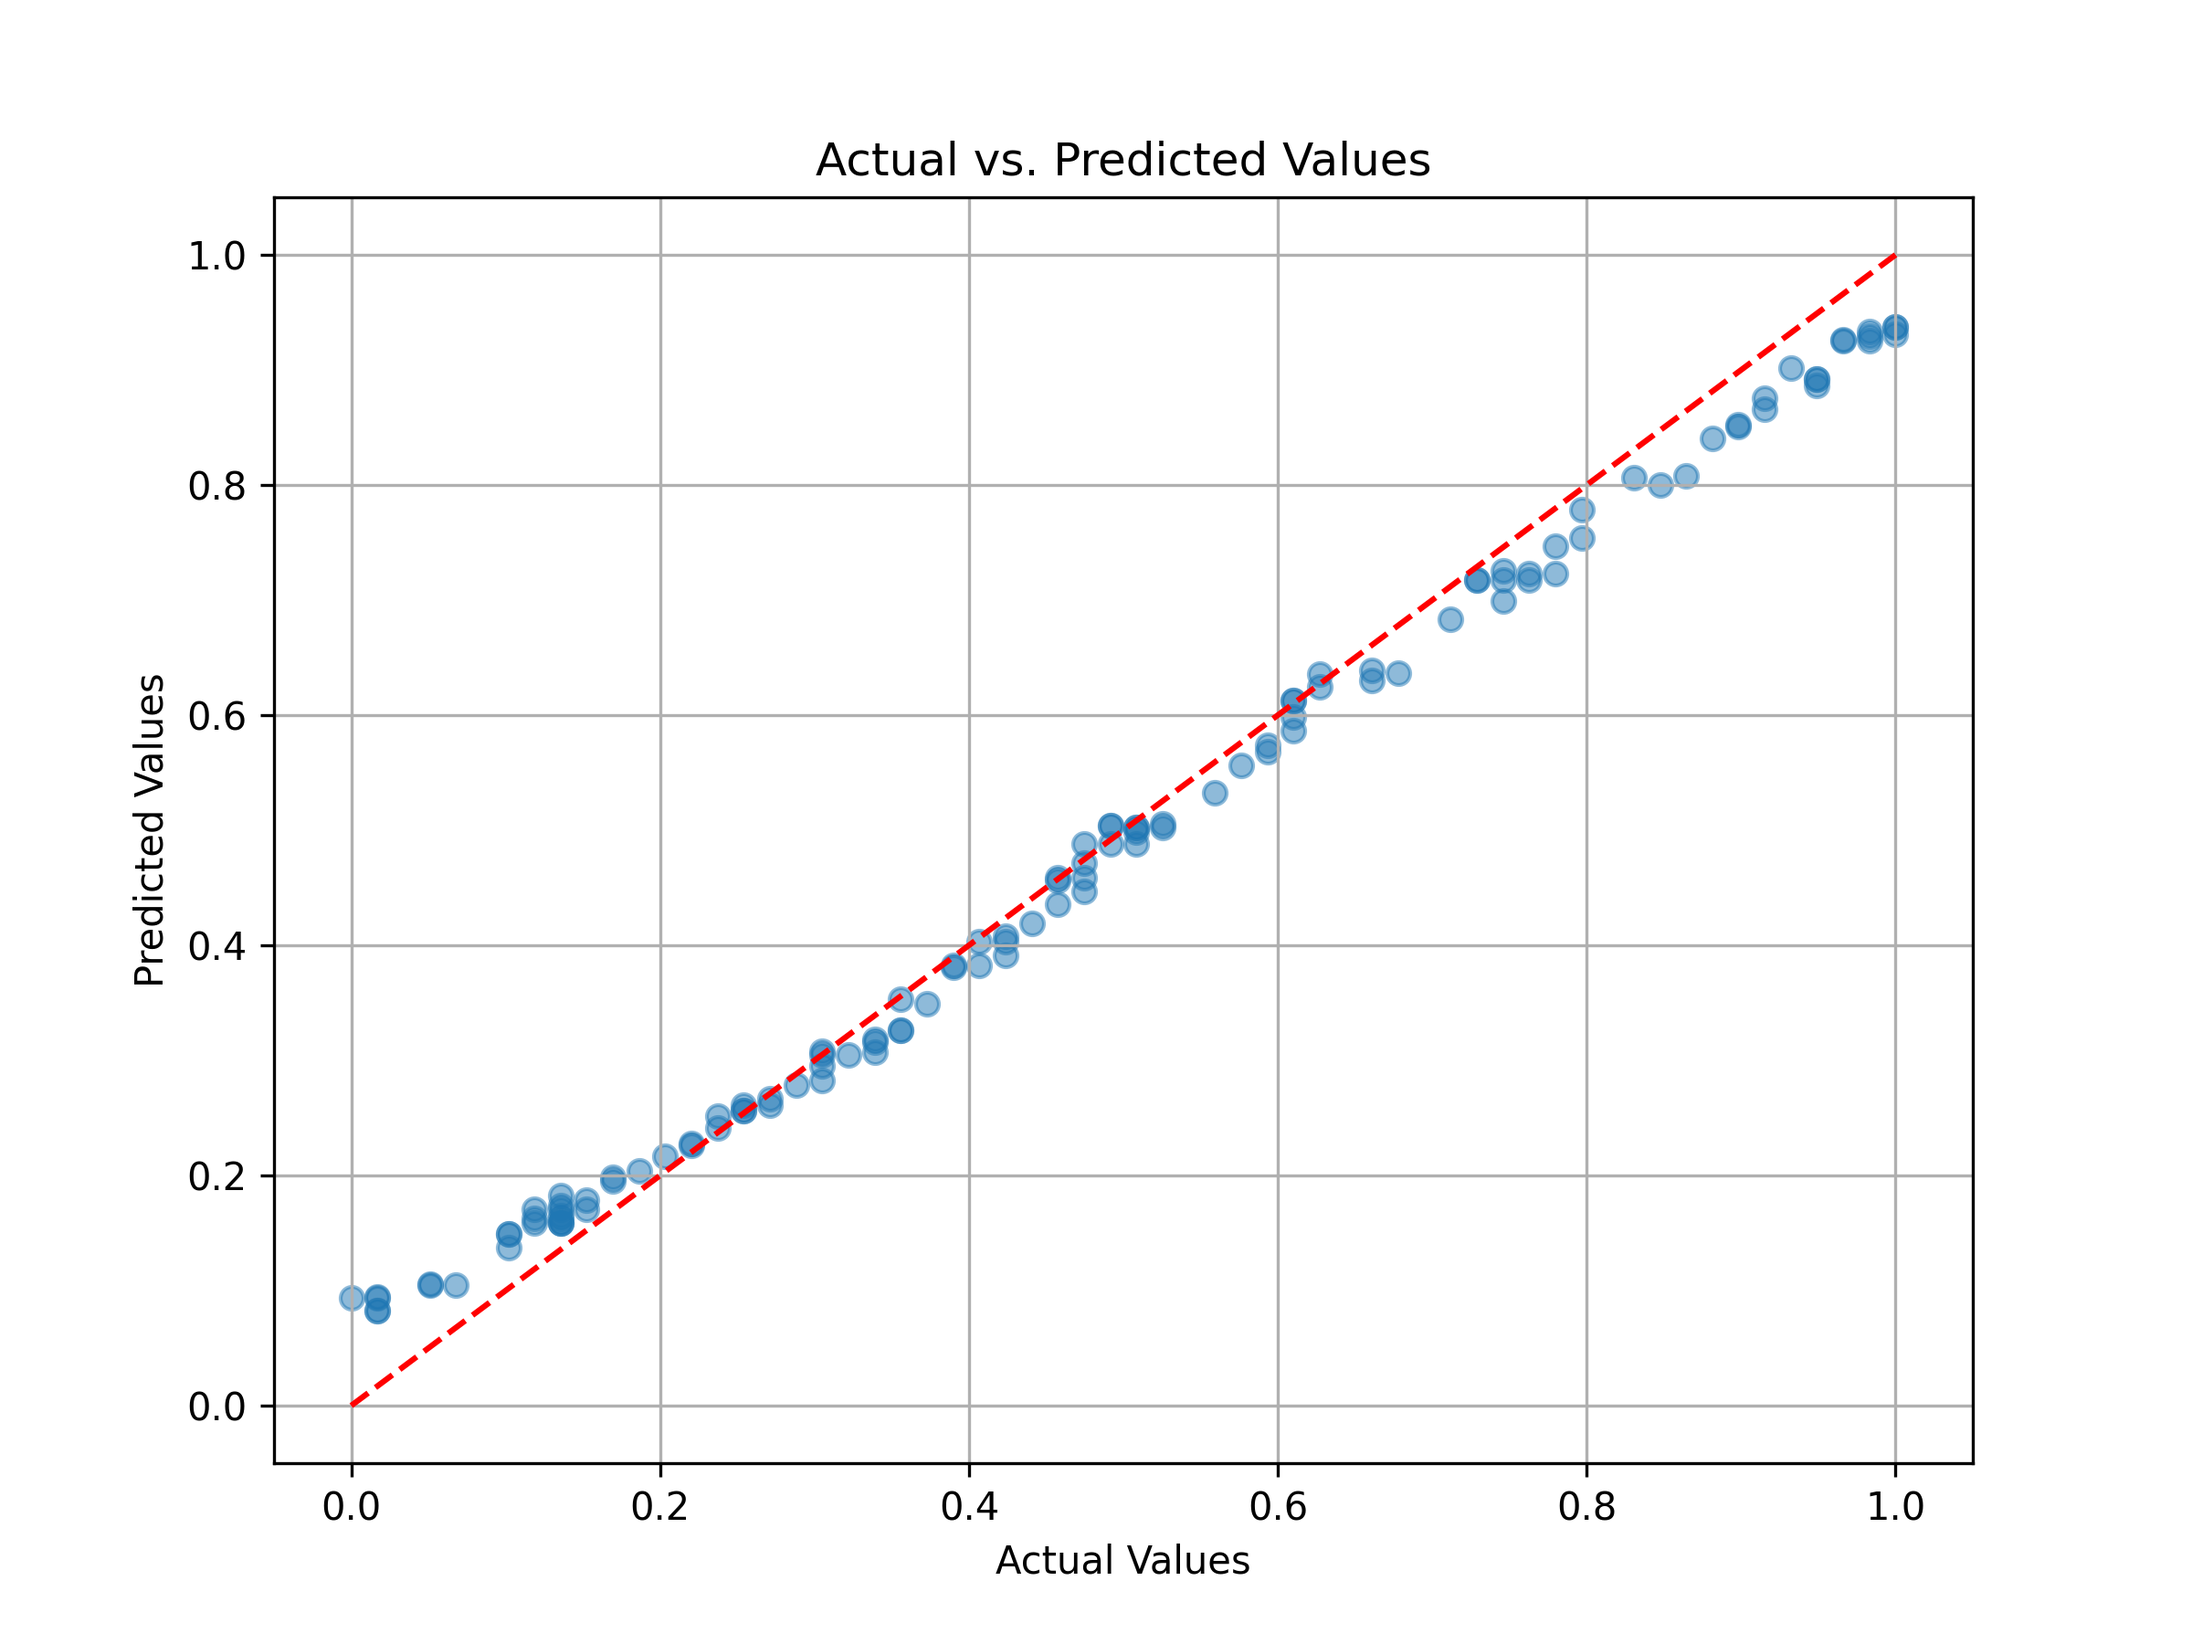
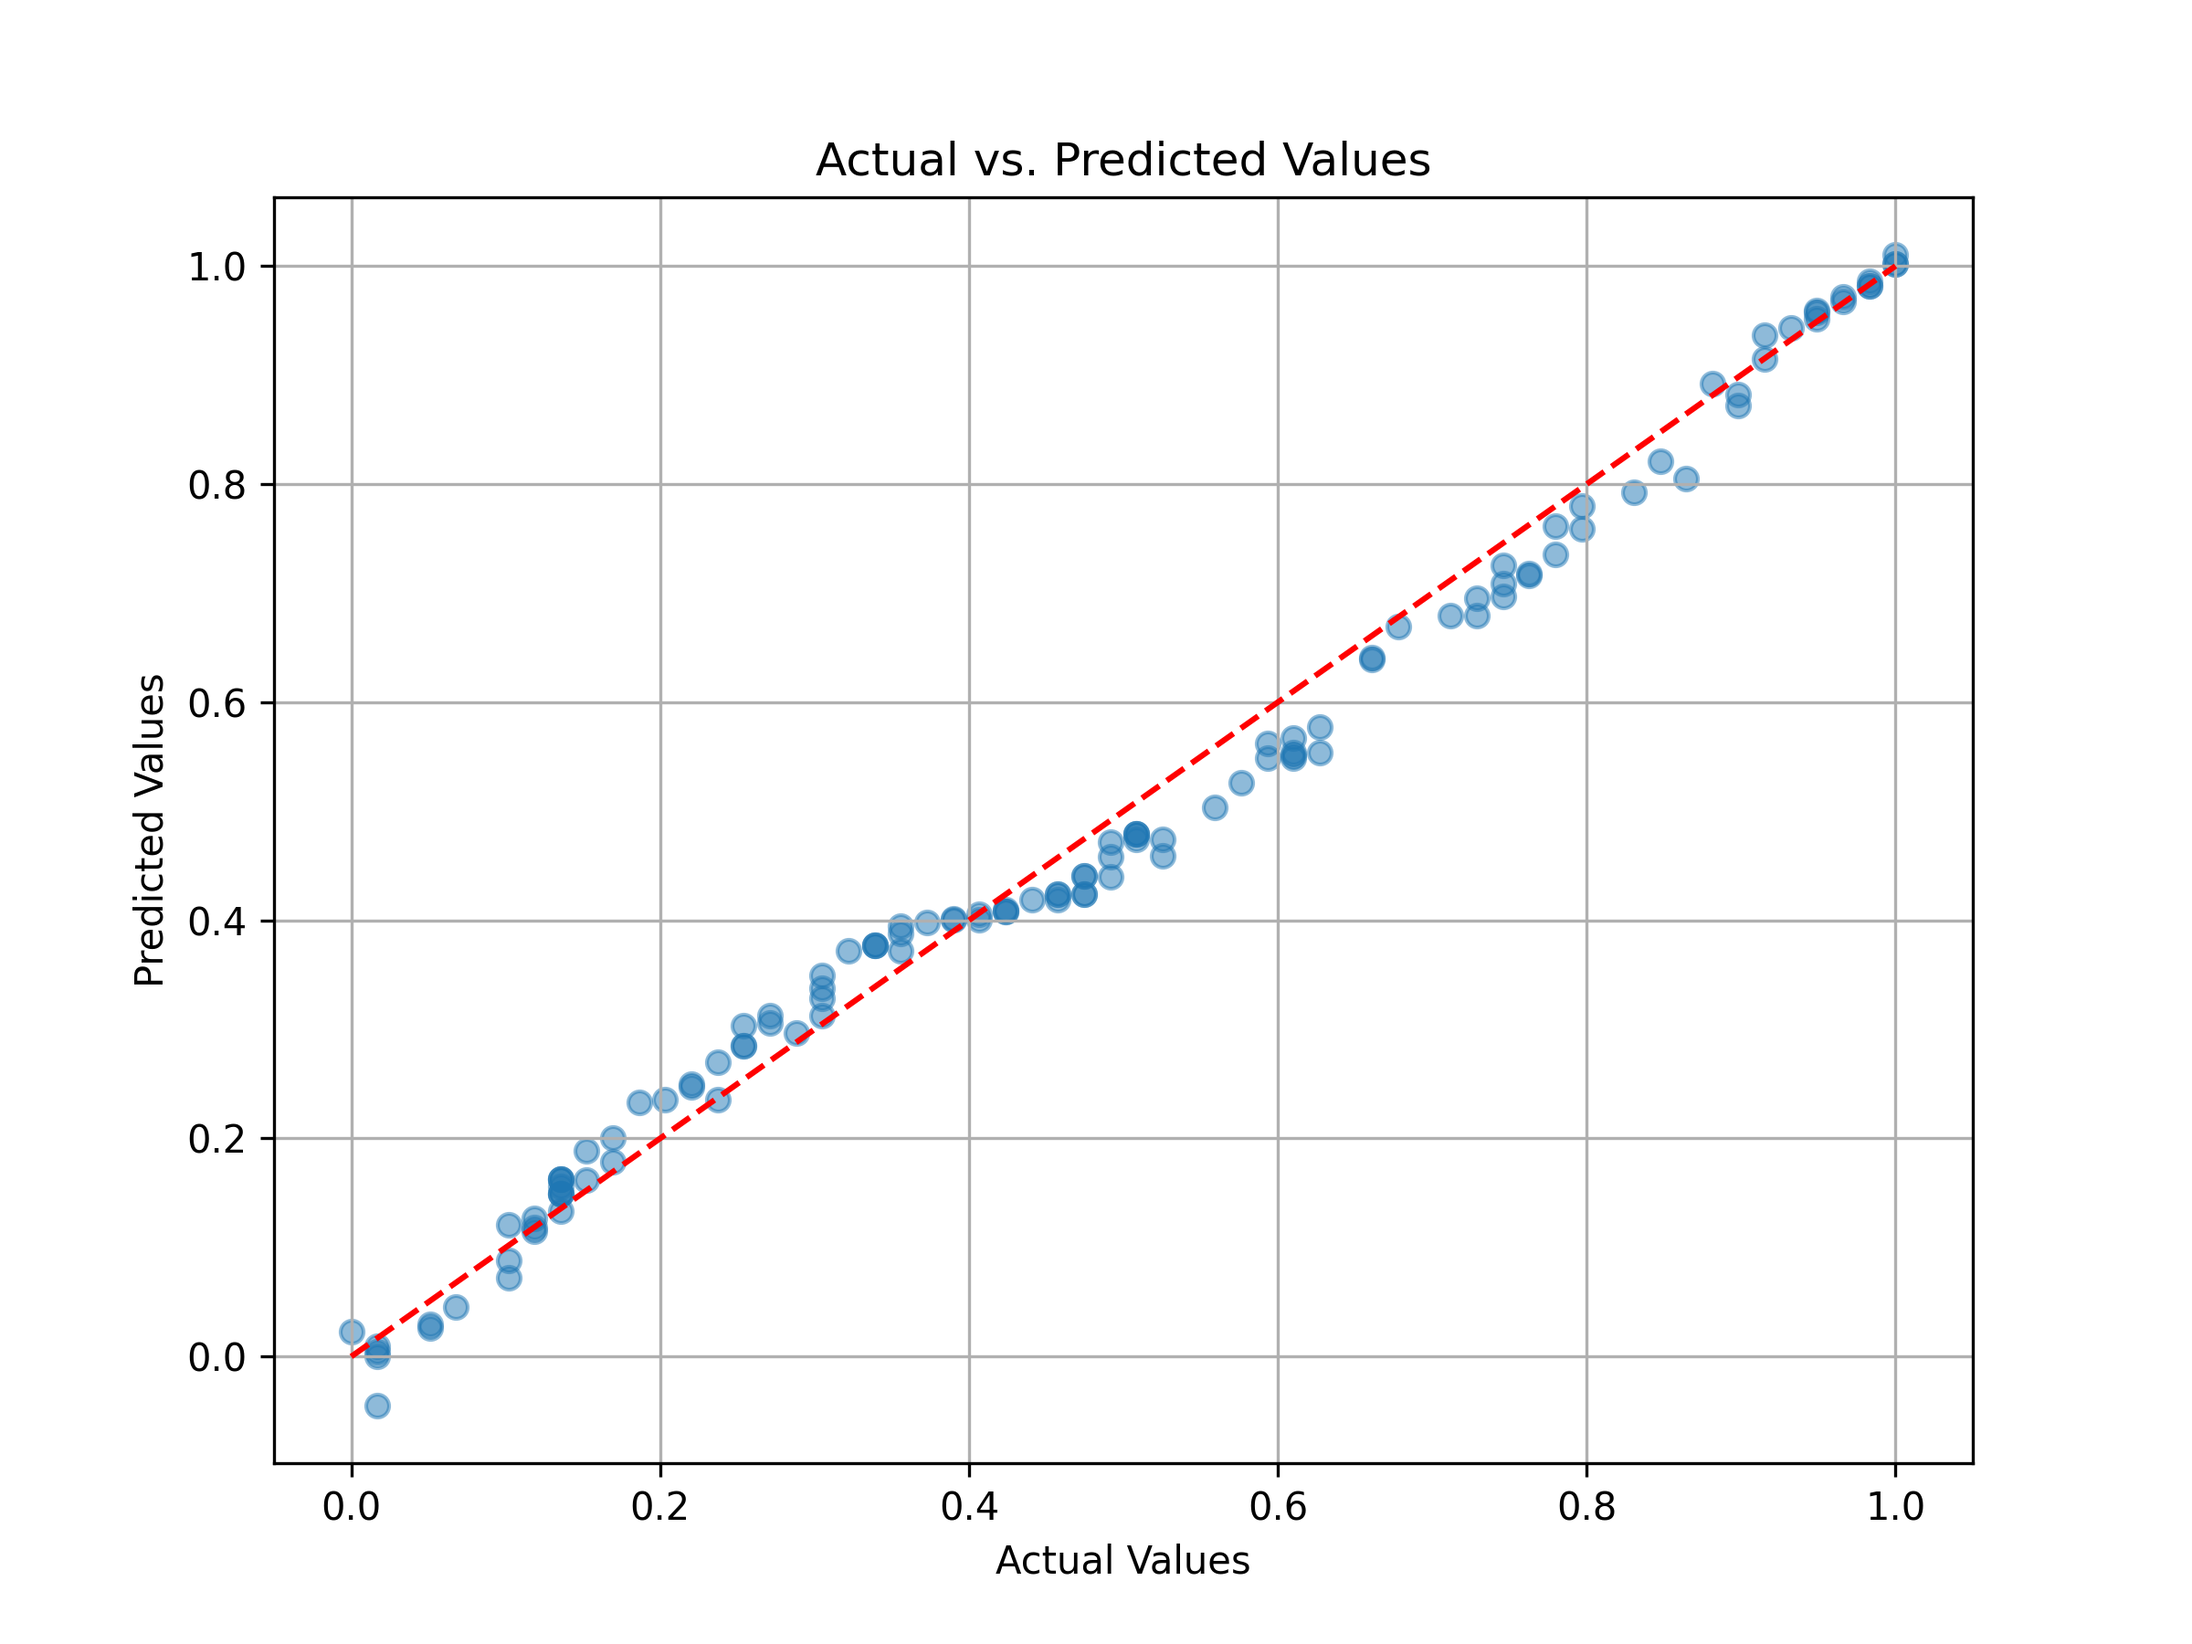
updated codes

diff --git a/gauge-level-regression.py b/gauge-level-regression.py
@@ -16,6 +16,7 @@ LABELS_CSV = 'images/generated/labels.csv'
 IMG_HEIGHT = 28
 IMG_WIDTH = 28
 CHANNELS = 1
+BATCH_SIZE = 10
 
 # Read labels CSV
 labels_df = pd.read_csv(LABELS_CSV)
@@ -43,18 +44,32 @@ labels = scaler.fit_transform(labels)
 # Train-test split
 X_train, X_test, y_train, y_test = train_test_split(images, labels, test_size=0.2, random_state=42)
 
+# Data Augmentation
+datagen_train = tf.keras.preprocessing.image.ImageDataGenerator(
+    rotation_range=10,
+    width_shift_range=0.1,
+    height_shift_range=0.1,
+    zoom_range=0.1,
+    horizontal_flip=True
+)
+
+datagen_test = tf.keras.preprocessing.image.ImageDataGenerator()
+
+train_generator = datagen_train.flow(X_train, y_train, batch_size=BATCH_SIZE)
+test_generator = datagen_test.flow(X_test, y_test, batch_size=BATCH_SIZE)
+
 # Define Model
 model = tf.keras.models.Sequential([
     tf.keras.layers.Input(shape=(IMG_HEIGHT, IMG_WIDTH, CHANNELS)),
-    tf.keras.layers.Conv2D(16, (3, 3), activation='relu'),
+    tf.keras.layers.Conv2D(32, (5, 5), activation='relu'),
     tf.keras.layers.MaxPooling2D((2, 2)),
 
-    tf.keras.layers.Conv2D(12, (3, 3), activation='relu'),
+    tf.keras.layers.Conv2D(20, (5, 5), activation='relu'),
     tf.keras.layers.MaxPooling2D((2, 2)),
 
     tf.keras.layers.Flatten(),
 
-    tf.keras.layers.Dense(20, activation='relu'),
+    tf.keras.layers.Dense(70, activation='relu'),
     tf.keras.layers.Dropout(0.25),
     tf.keras.layers.Dense(1)  # Single output neuron for regression
 ])
@@ -65,7 +80,7 @@ model.compile(optimizer=tf.keras.optimizers.Adam(learning_rate=0.001), loss='mea
 model.summary()
 
 
-history = model.fit(X_train, y_train, epochs=100, batch_size=32, validation_data=(X_test, y_test))
+history = model.fit(train_generator, epochs=500, validation_data=test_generator)
 
 # Evaluate the model
 test_loss, test_mae = model.evaluate(X_test, y_test)

diff --git a/gauge-levels-classifier.py b/gauge-levels-classifier.py
@@ -18,7 +18,7 @@ LABELS_CSV = 'images/generated/labels.csv'
 IMG_HEIGHT = 28
 IMG_WIDTH = 28
 CHANNELS = 1
-BATCH_SIZE = 20
+BATCH_SIZE = 10
 
 # Read labels CSV
 labels_df = pd.read_csv(LABELS_CSV)
@@ -72,8 +72,8 @@ model = tf.keras.models.Sequential([
 
     tf.keras.layers.Flatten(),
 
-    tf.keras.layers.Dense(128, activation='relu'),
-    tf.keras.layers.Dropout(0.3),
+    tf.keras.layers.Dense(70, activation='relu'),
+    tf.keras.layers.Dropout(0.25),
     tf.keras.layers.Dense(6, activation='softmax')
 ])
 
@@ -83,7 +83,7 @@ model.compile(optimizer=tf.keras.optimizers.Adam(learning_rate=0.001), loss='cat
 # Print model summary
 model.summary()
 
-history = model.fit(train_generator, epochs=300, validation_data=test_generator)
+history = model.fit(train_generator, epochs=500, validation_data=test_generator)
 
 # Evaluate the model
 test_loss, test_acc = model.evaluate(X_test, y_test)
